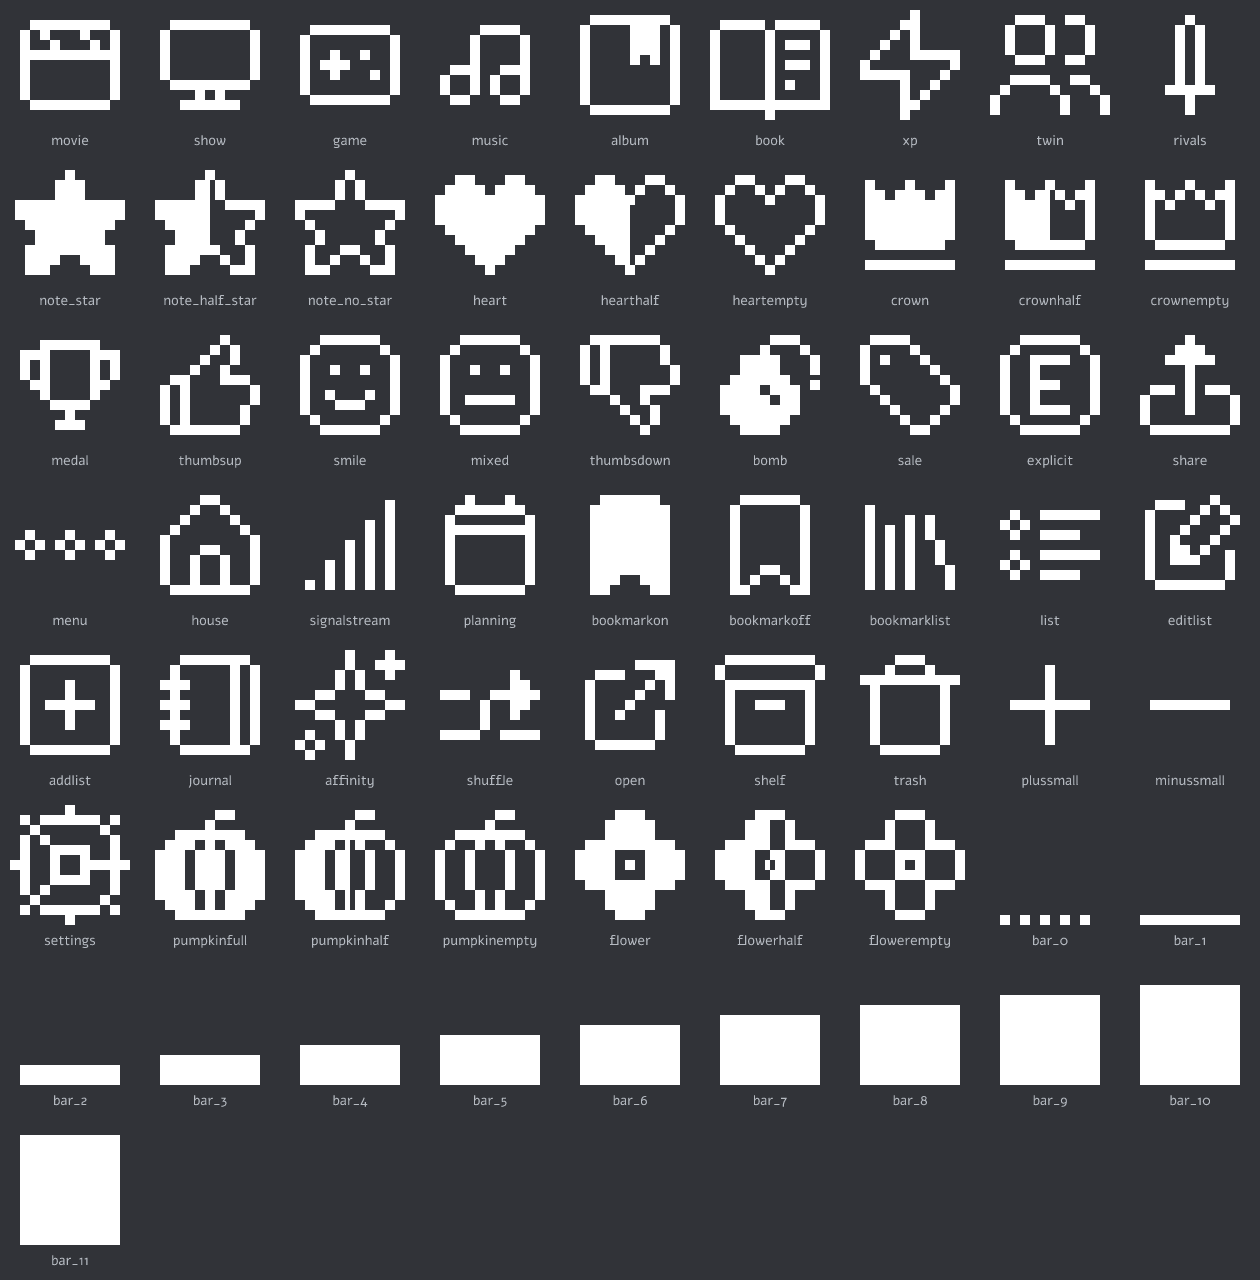
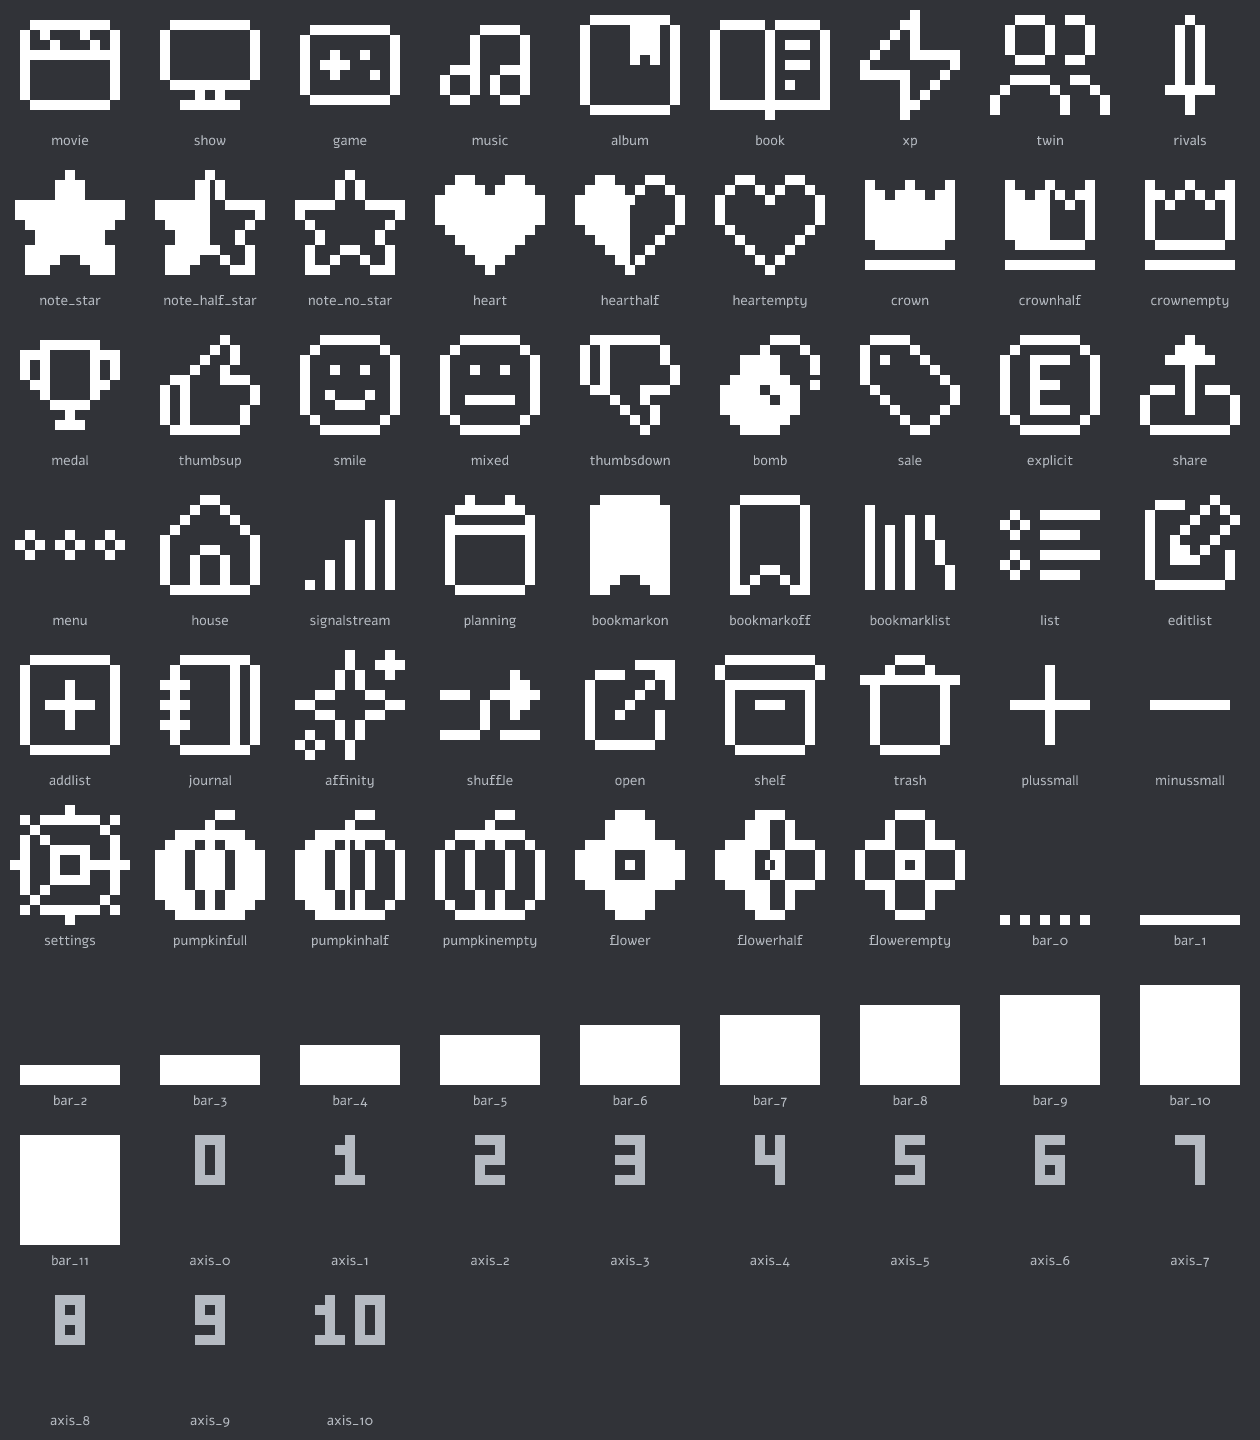
style: 0 to 10 pixel-art scale under the rating distribution bars

diff --git a/cogs/reviews/formatting.py b/cogs/reviews/formatting.py
@@ -283,10 +283,11 @@ def format_rating_graph(entries: list[tuple[MediaHit, Any]]) -> str:
         getattr(emoji_set, f"BAR_{max(1, round(top * n / peak)) if n else 0}")
         for n in counts
     )
+    axis = "".join(getattr(emoji_set, f"AXIS_{score}") for score in range(RATING_MAX + 1))
     most = max(range(RATING_MAX + 1), key=lambda score: (counts[score], score))
     return (
-        f"**Répartition**\n{bars}\n"
-        f"-# De 0 à {RATING_MAX} · le plus souvent **{most}/{RATING_MAX}** ({counts[most]} fois)"
+        f"**Répartition**\n{bars}\n{axis}\n"
+        f"-# Le plus souvent **{most}/{RATING_MAX}** ({counts[most]} fois)"
     )
 
 

diff --git a/cogs/reviews/emojis.py b/cogs/reviews/emojis.py
@@ -72,6 +72,10 @@ BAR_9 = BAR_10 = "▆"
 BAR_11 = "█"
 BAR_MAX = 11
 
+# Échelle sous les barres (assets/emojis/axis_0.png … axis_10.png).
+AXIS_0, AXIS_1, AXIS_2, AXIS_3, AXIS_4, AXIS_5 = "0⃣", "1⃣", "2⃣", "3⃣", "4⃣", "5⃣"
+AXIS_6, AXIS_7, AXIS_8, AXIS_9, AXIS_10 = "6⃣", "7⃣", "8⃣", "9⃣", "🔟"
+
 
 # ---------------------------------------------------------------------------
 # Synchronisation automatique (émojis d'application)
